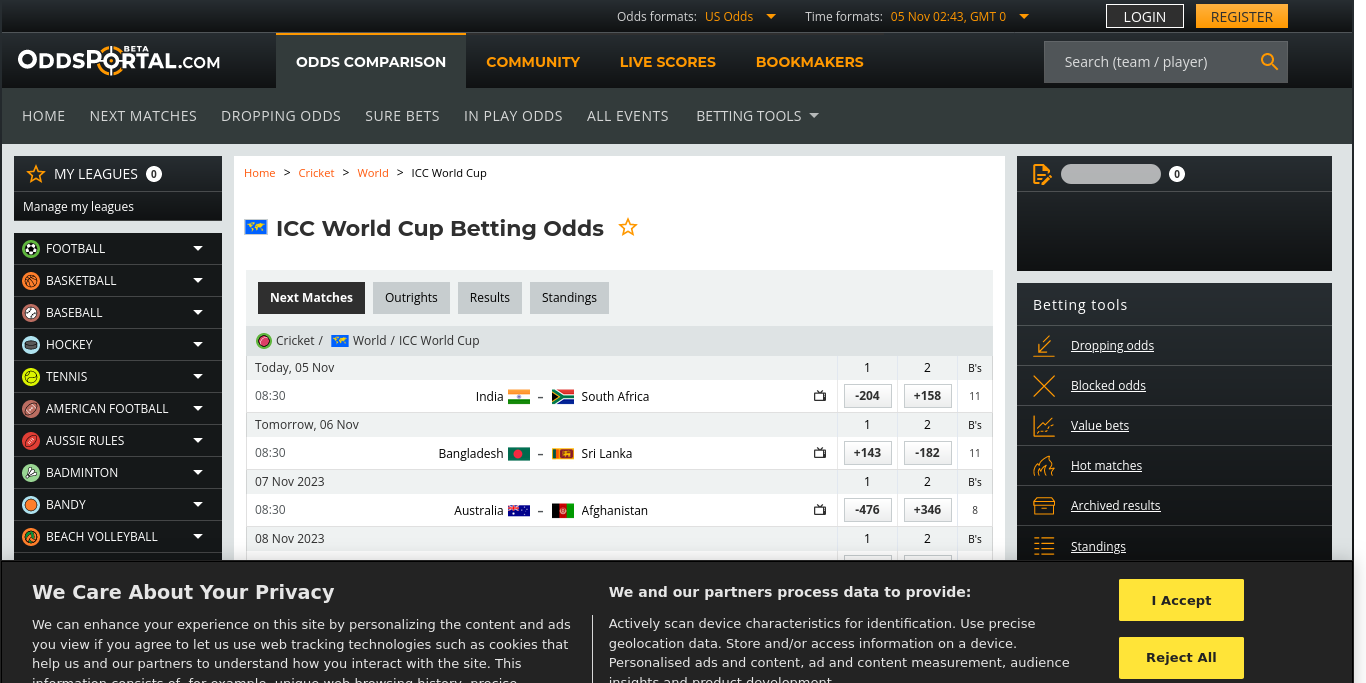
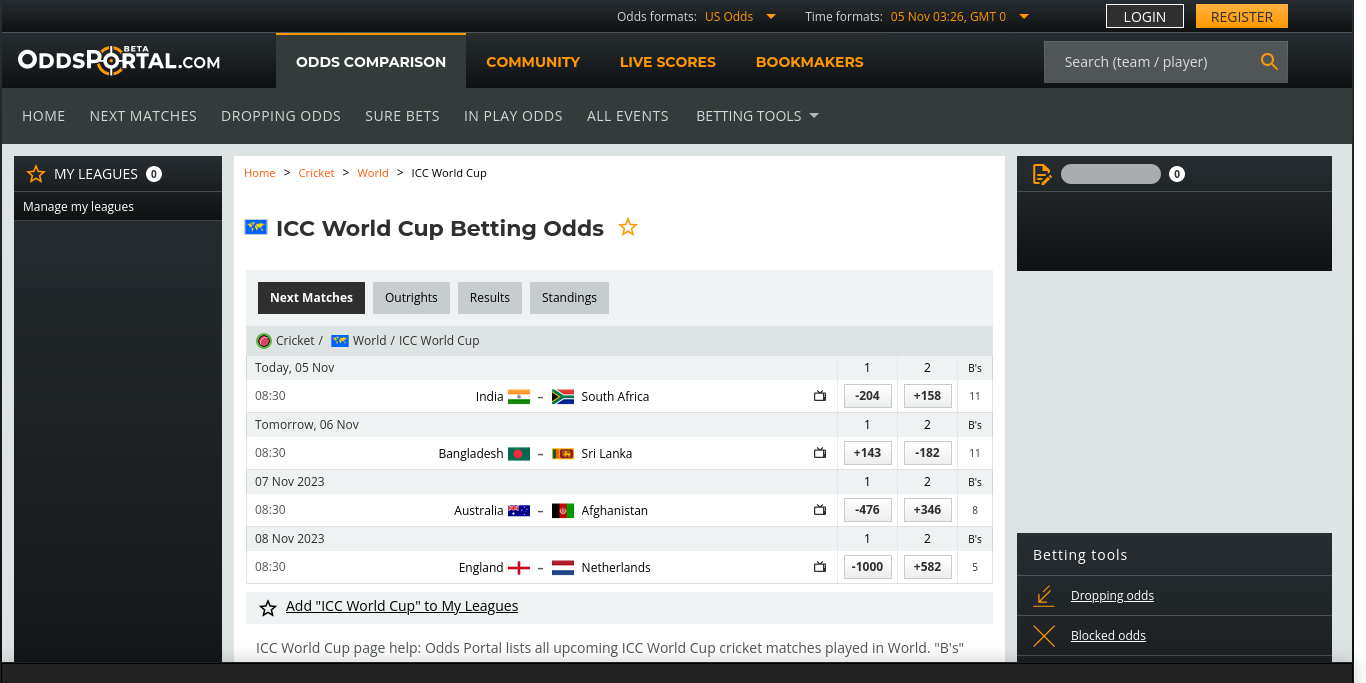
Update Data Sun Nov  5 03:26:12 UTC 2023

Changed region(s): [[0.0, 0.3075, 1.0, 1.0], [0.6764, 0.0, 0.7072, 0.0307]]

diff --git a/src/nonview/constants/VERSION.js b/src/nonview/constants/VERSION.js
@@ -1,4 +1,4 @@
 // Auto-generated by javascript_version.py
-export const VERSION_UT = 1699152199;
+export const VERSION_UT = 1699154772;
 export const VERSION_DATETIME = new Date(VERSION_UT * 1_000);
 export const LAST_COMMIT_MESSAGE = "Updated 📊Data";

diff --git a/src/nonview/data/ODI_ID_TO_WINNER.js b/src/nonview/data/ODI_ID_TO_WINNER.js
@@ -1,6 +1,6 @@
 // Auto Generated by UpdateODIIDToWinner
 // https://www.cricbuzz.com/cricket-series/6732/icc-cricket-world-cup-2023/matches
-// 2023-11-05 08:13:00 +0000
+// 2023-11-05 08:55:51 +0000
 
 import { TEAM } from "../core/Team.js";
 

diff --git a/src/nonview/data/TEAM1_ID_TO_TEAM2_ID_TO_ODDS_PAIR.js b/src/nonview/data/TEAM1_ID_TO_TEAM2_ID_TO_ODDS_PAIR.js
@@ -1,6 +1,6 @@
 // Auto Generated by UpdateTeam1IDToTeam2IDToOddsPair
 // https://www.oddsportal.com/cricket/world/icc-world-cup/
-// 2023-11-05 08:13:13 +0000
+// 2023-11-05 08:56:06 +0000
 
 import { TEAM } from "../core/Team.js";
 

diff --git a/src/nonview/data/POINTS_TABLE.js b/src/nonview/data/POINTS_TABLE.js
@@ -1,6 +1,6 @@
 // Auto Generated by UpdatePointsTable
 // https://www.cricketworldcup.com/standings
-// 2023-11-05 08:13:08 +0000
+// 2023-11-05 08:55:59 +0000
 
 import { TEAM } from "../core/Team.js";
 
